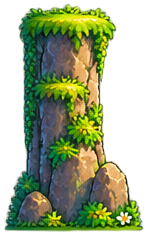
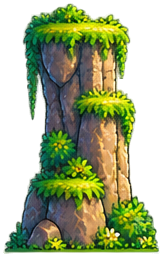
Ajout des obstacles aléatoire

diff --git a/src/js/backgrounds/mountains/MountainsBottom.js b/src/js/backgrounds/mountains/MountainsBottom.js
@@ -1,40 +1,39 @@
-
-import mountainUrl from "../../assets/lvl1/bas/montagne_bas_01.png";
-import Background from "../Background";
-
-export default class Moutain {
-
+export default class MountainsBottom {
     // --- Sprite ---
     /** Moutain image */
     static image = new Image();
-    static imageMoutain = mountainUrl;
 
     // --- Position ---
     /** Moutain position */
     static x = 0;
     static y = 0;
 
+    static groundY;
+
     static imageOverlap = 35;
 
-    static async init(height) {
-        await this.loadImage();
+    static randomNumber;
+
+    static async init(height, randomNumber) {
+        this.groundY = height;
+        this.randomNumber = randomNumber;
+        await this.loadImage(this.generateRandomImage());
         this.y = height - this.image.height + this.imageOverlap;
     }
 
-    static loadImage() {
+    static loadImage(generateRandomImage) {
         return new Promise((resolve, reject) => {
             this.image.onload = resolve;
 
             this.image.onerror = () => {
                 reject(new Error(
-                    "Unable to load Moutain image: " + this.imageMoutain
+                    "Unable to load Moutain image: " + generateRandomImage
                 ));
             };
 
-            this.image.src = this.imageMoutain;
+            this.image.src = generateRandomImage;
 
-            this.x = 1500;
-
+            this.x = this.randomNumber;
         });
     }
 
@@ -46,13 +45,15 @@ export default class Moutain {
         this.updateLoop();
     }
 
-    static updateLoop() {
-
+    static async updateLoop() {
+        if (this.x + this.image.width < 0) {
+            await this.loadImage(this.generateRandomImage());
+            this.y = this.groundY - this.image.height + this.imageOverlap;
+        }
     }
 
     static draw(ctx) {
         ctx.drawImage(this.image, this.x, this.y);
-
     }
 
     static drawAABBbox(ctx) {
@@ -60,5 +61,11 @@ export default class Moutain {
         ctx.fillStyle = "rgba(255, 0, 0, 0.3)";
         ctx.rect(this.x, this.y, this.image.width, this.image.height);
         ctx.fill();
+    }
+
+    static generateRandomImage() {
+        const randomNumber = Math.floor(Math.random() * 10 + 1);
+
+        return `/Flappy/src/assets/lvl1/bas/montagne_bas_${randomNumber < 10 ? "0" + randomNumber : randomNumber}.png`;
     }
 }

diff --git a/src/js/backgrounds/mountains/MountainsTop.js b/src/js/backgrounds/mountains/MountainsTop.js
@@ -1,0 +1,66 @@
+export default class MountainsTop {
+    // --- Sprite ---
+    /** Moutain image */
+    static image = new Image();
+
+    // --- Position ---
+    /** Moutain position */
+    static x = 0;
+    static y = 0;
+
+    static randomNumber;
+
+    static async init(randomNumber) {
+        this.randomNumber = randomNumber;
+        await this.loadImage(this.generateRandomImage());
+        this.x = this.randomNumber;
+    }
+
+    static loadImage(generateRandomImage) {
+        return new Promise((resolve, reject) => {
+            this.image.onload = resolve;
+
+            this.image.onerror = () => {
+                reject(new Error(
+                    "Unable to load Moutain image: " + generateRandomImage
+                ));
+            };
+
+            this.image.src = generateRandomImage;
+
+            this.x = this.randomNumber;
+        });
+    }
+
+    static update(deltaTime, firstPlanVx) {
+        const frameScale = deltaTime * 60;
+
+        this.x -= firstPlanVx * frameScale;
+
+        this.updateLoop();
+    }
+
+    static async updateLoop() {
+        if (this.x + this.image.width < 0) {
+            await this.loadImage(this.generateRandomImage());
+            this.y = 10;
+        }
+    }
+
+    static draw(ctx) {
+        ctx.drawImage(this.image, this.x, this.y);
+    }
+
+    static drawAABBbox(ctx) {
+        ctx.beginPath();
+        ctx.fillStyle = "rgba(255, 0, 0, 0.3)";
+        ctx.rect(this.x, this.y, this.image.width, this.image.height);
+        ctx.fill();
+    }
+
+    static generateRandomImage() {
+        const randomNumber = Math.floor(Math.random() * 10 + 1);
+
+        return `/Flappy/src/assets/lvl1/haut/montagne_haut_${randomNumber < 10 ? "0" + randomNumber : randomNumber}.png`;
+    }
+}

diff --git a/src/js/Background.js b/src/js/Background.js
@@ -1,6 +1,6 @@
 
 import Ground from "./backgrounds/Ground.js";
-import Moutain from "./backgrounds/Moutain.js";
+import Mountains from "./backgrounds/Mountain.js";
 import Sky from "./backgrounds/Sky.js";
 
 export default class Background {
@@ -9,35 +9,36 @@ export default class Background {
 
     static skyVx = 1;
 
-    static get Ground(){
+    static get Ground() {
         return Ground;
     }
 
-    static get Moutain(){
-        return Moutain;
+    static get Mountains() {
+        return Mountains;
     }
 
     static async init(height) {
         await Ground.init(height);
         await Sky.init();
-        await Moutain.init(Ground.y);
+        await Mountains.init(Ground.y);
     }
 
     static update(deltaTime) {
         Sky.update(deltaTime, this.skyVx);
         Ground.update(deltaTime, this.firstPlanVx);
-        Moutain.update(deltaTime, this.firstPlanVx);
+        Mountains.update(deltaTime, this.firstPlanVx);
 
     }
 
     static draw(ctx) {
+
         Sky.draw(ctx);
         Ground.draw(ctx);
-        Moutain.draw(ctx);
+        Mountains.draw(ctx);
+        
     }
 
     static drawAABBbox(ctx) {
         Ground.drawAABBbox(ctx);
-        Moutain.drawAABBbox(ctx);
     }
 }

diff --git a/src/js/CollisionManager.js b/src/js/CollisionManager.js
@@ -109,10 +109,13 @@ export default class CollisionManager {
 
 
 
-    static checkPixelPerfect(objectA, objectB) {
+    static checkPixelPerfect(objectA, objectB, offset = 0) {
 
         const a = this.getAABB(objectA);
         const b = this.getAABB(objectB);
+
+        a.x += offset;
+        a.y += offset;
 
         const left = Math.max(a.x, b.x);
         const right = Math.min(a.x + a.width, b.x + b.width);
@@ -136,7 +139,6 @@ export default class CollisionManager {
         const endY = Math.ceil(bottom);
 
         for (let y = startY; y < endY; y++) {
-
             for (let x = startX; x < endX; x++) {
 
                 const worldX = x + 0.5;
@@ -158,10 +160,10 @@ export default class CollisionManager {
                 const indexA = (ay * a.width + ax) * 4;
                 const indexB = (by * b.width + bx) * 4;
 
-                const alphaA = pixelsA[indexA + 3];
-                const alphaB = pixelsB[indexB + 3];
-
-                if (alphaA > 20 && alphaB > 20) {
+                if (
+                    pixelsA[indexA + 3] > 20 &&
+                    pixelsB[indexB + 3] > 20
+                ) {
                     return true;
                 }
             }

diff --git a/src/js/backgrounds/Mountain.js b/src/js/backgrounds/Mountain.js
@@ -1,0 +1,34 @@
+import Renderer from "../Renderer";
+import MountainsBottom from "./mountains/MountainsBottom";
+import MountainsTop from "./mountains/MountainsTop";
+
+
+export default class Mountains {
+
+
+    static get MountainsTop() {
+        return MountainsTop;
+    }
+
+    static get MountainsBottom() {
+        return MountainsBottom;
+    }
+    
+    static randomNumber; 
+
+    static async init(height) {
+        MountainsBottom.init(height, this.randomNumber);
+        MountainsTop.init(this.randomNumber);
+        this.randomNumber = Math.random() * window.innerWidth + Renderer.width;
+    }
+
+    static draw(ctx) {
+        MountainsBottom.draw(ctx);
+        MountainsTop.draw(ctx);
+    }
+
+    static update(deltaTime, firstPlanVx) {
+        MountainsBottom.update(deltaTime, firstPlanVx);
+        MountainsTop.update(deltaTime, firstPlanVx);
+    }
+}

diff --git a/src/js/Audio.js b/src/js/Audio.js
@@ -22,7 +22,7 @@ export default class Audio {
   static baliseNiv3 = baliseNiv3;
   static baliseNiv4 = baliseNiv4;
   static volumeCurseur = 0.1;
-  // static volumeCurseur = 0; // pour qu'il ferme sa bouche quand on debug
+  static volumeCurseur = 0; // pour qu'il ferme sa bouche quand on debug
   static volumeJoueur = 0.2;
   static volumeMax = 1;
   static volumeMin = 0;

diff --git a/src/js/backgrounds/Sky.js b/src/js/backgrounds/Sky.js
@@ -59,9 +59,7 @@ export default class Sky {
     }
 
     static draw(ctx) {
-        // ctx.drawImage(this.image, this.x, this.y);
         ctx.drawImage(this.image, this.x, ctx.canvas.height - this.image.height);
-        // ctx.drawImage(this.image, this.cloneX, this.y);
         ctx.drawImage(this.image, this.cloneX, ctx.canvas.height - this.image.height);
     }
 }

diff --git a/src/js/Renderer.js b/src/js/Renderer.js
@@ -39,8 +39,9 @@ export default class Renderer {
      */
     static draw() {
         this.ctx.clearRect(0, 0, this.width, this.height);
-        // Background.drawAABBbox(this.ctx);
+
         Background.draw(this.ctx);
+        // Background.drawAABBbox(this.ctx);
         // Player.drawAABBbox(this.ctx);
         Player.draw(this.ctx);
     }

diff --git a/src/js/Game.js b/src/js/Game.js
@@ -98,7 +98,7 @@ export default class Game {
 
     const potentialCollisions = CollisionManager.getPotentialCollisions(
       Player,
-      [Background.Moutain],
+      [Background.Mountains.MountainsBottom, Background.Mountains.MountainsTop],
     );
 
     for (const object of potentialCollisions) {

diff --git a/src/js/backgrounds/Ground.js b/src/js/backgrounds/Ground.js
@@ -21,6 +21,7 @@ export default class Ground {
         await this.loadImage();
 
         this.y = height - this.image.height;
+        this.x = 0;
         this.cloneX = this.x + this.image.width - this.imageOverlap;
     }
 
